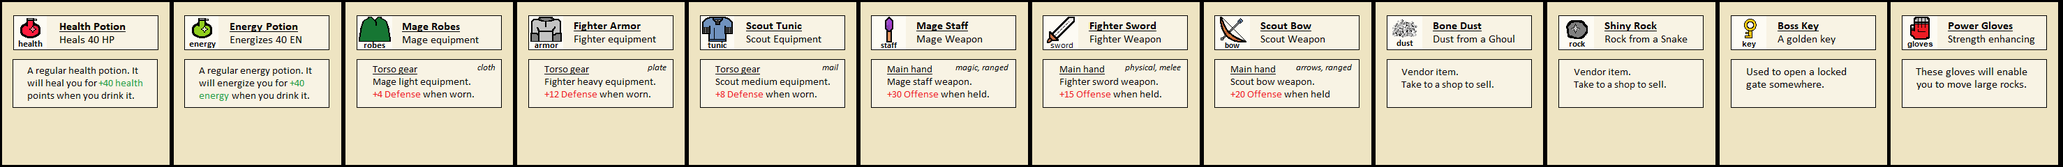
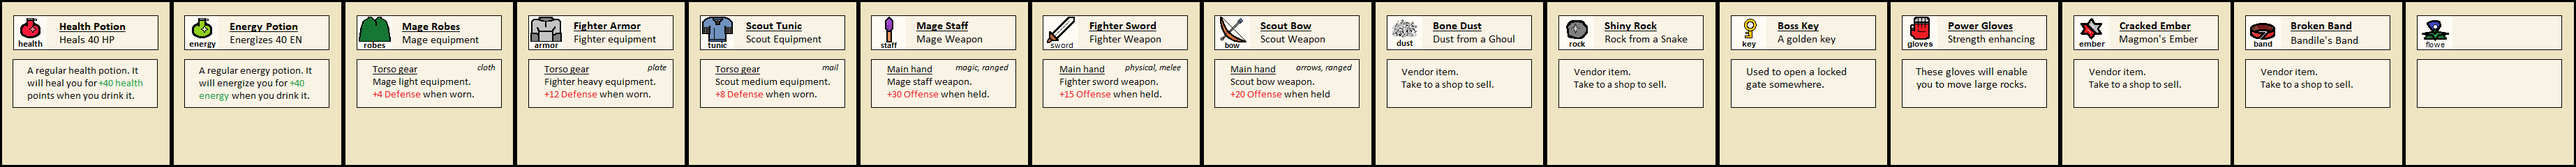
Korlok
first two quests are implemented and mostly complete.

vendor items from new mobs have associated info art and functions.

Changed region(s): [[0.0, 0.0, 1.0, 0.9917]]

diff --git a/project_eterna.py b/project_eterna.py
@@ -1833,10 +1833,14 @@ if __name__ == '__main__':
     message_box = UiElement("message box", 173, 650, graphic_dict["message_box"])
     bar_backdrop = UiElement("bar backdrop", 165, 45, graphic_dict["bar_backdrop"])
     enemy_status_bar_back = UiElement("enemy bar backdrop", 700, 90, graphic_dict["enemy_bar_backdrop"])
+
     quest_star_garan = UiElement("quest star garan", 210, 390, graphic_dict["quest_start_star"])
     quest_star_maurelle = UiElement("quest star maurelle", 744, 575, graphic_dict["quest_start_star"])
     quest_star_celeste = UiElement("quest star maurelle", 760, 373, graphic_dict["quest_start_star"])
     quest_star_torune = UiElement("quest star torune", 430, 75, graphic_dict["quest_start_star"])
+    quest_star_voruke = UiElement("quest star voruke", 262, 385, graphic_dict["quest_start_star"])
+    quest_star_zerah = UiElement("quest star zerah", 651, 50, graphic_dict["quest_start_star"])
+
     player_battle_sprite = BattleCharacter("stan battle", 320, 460, graphic_dict["player_no_role_amuna_battle"])
     snake_battle_sprite = BattleCharacter("snake battle", 715, 250, graphic_dict["snake_battle"])
     ghoul_battle_sprite = BattleCharacter("ghoul battle", 698, 280, graphic_dict["ghoul_battle"])
@@ -2911,7 +2915,7 @@ if __name__ == '__main__':
                                                              movement_able, current_enemy_battling,
                                                              current_npc_interacting, current_building_entering,
                                                              magmon_battle_sprite, bandile_battle_sprite,
-                                                             interactables_mines)
+                                                             interactables_mines, quest_star_voruke, quest_star_zerah)
 
                     over_world_song_set = seldon_returned["over_world_song_set"]
                     interactables_seldon = seldon_returned["interactables_seldon"]
@@ -2982,7 +2986,9 @@ if __name__ == '__main__':
                                                              magmon_battle_sprite, bandile_battle_sprite, npc_voruke,
                                                              npc_zerah, npcs_korlok, seldon_enemies, snakes, ghouls,
                                                              bandiles, interactables_seldon, interactables_korlok,
-                                                             Enemy, Item, UiElement, interactables_mines)
+                                                             Enemy, Item, UiElement, interactables_mines,
+                                                             quest_star_garan, quest_star_maurelle, quest_star_celeste,
+                                                             quest_star_torune, quest_star_voruke, quest_star_zerah)
 
                     over_world_song_set = korlok_returned["over_world_song_set"]
                     korlok_attuned = korlok_returned["korlok_attuned"]
@@ -5247,8 +5253,8 @@ if __name__ == '__main__':
 
                             if player.current_zone == "korlok" or player.current_zone == "mines":
                                 player.current_zone = "korlok"
-                                player.x_coordinate = 895
-                                player.y_coordinate = 325
+                                player.x_coordinate = 882
+                                player.y_coordinate = 290
                                 player.rect = player.surf.get_rect(midbottom=(player.x_coordinate, player.y_coordinate))
                             else:
                                 player.current_zone = "seldon"
@@ -5267,6 +5273,17 @@ if __name__ == '__main__':
                                 enemy.health = 100
                                 # noinspection PyTypeChecker
                                 combat_scenario.enemy_health_bar(enemy, graphic_dict)
+                            for enemy in korlok_enemies:
+                                enemy.health = 100
+                                # noinspection PyTypeChecker
+                                combat_scenario.enemy_health_bar(enemy, graphic_dict)
+                            for enemy in bandiles:
+                                enemy.health = 100
+                                # noinspection PyTypeChecker
+                                combat_scenario.enemy_health_bar(enemy, graphic_dict)
+
+                            muchador.health = 100
+                            combat_scenario.enemy_health_bar(muchador, graphic_dict)
 
                     elif event.type == QUIT:
                         pygame.mixer.quit()

diff --git a/gameplay_functions.py b/gameplay_functions.py
@@ -8,34 +8,50 @@ import drawing_functions
 
 # quest stars for npcs that update based on player quest progress
 def npc_quest_star_updates(screen, player, star_garan, star_maurelle, star_celeste, star_torune,
-                           quest_progress_star, quest_complete_star):
-    if not player.quest_complete["sneaky snakes"]:
-        screen.blit(star_garan.surf, star_garan.rect)
-    if player.quest_progress["sneaky snakes"] == 4:
-        star_garan.update(210, 390, quest_complete_star)
-    if player.quest_status["sneaky snakes"] and player.quest_progress["sneaky snakes"] != 4:
-        star_garan.update(210, 390, quest_progress_star)
+                           quest_progress_star, quest_complete_star, star_voruke, star_zerah):
+    if player.current_zone == "seldon":
+        if not player.quest_complete["sneaky snakes"]:
+            screen.blit(star_garan.surf, star_garan.rect)
+        if player.quest_progress["sneaky snakes"] == 4:
+            star_garan.update(210, 390, quest_complete_star)
+        if player.quest_status["sneaky snakes"] and player.quest_progress["sneaky snakes"] != 4:
+            star_garan.update(210, 390, quest_progress_star)
 
-    if not player.quest_complete["where's nede?"]:
-        screen.blit(star_celeste.surf, star_celeste.rect)
-    if player.quest_progress["where's nede?"] == 1:
-        star_celeste.update(760, 373, quest_complete_star)
-    if player.quest_status["where's nede?"] and player.quest_progress["where's nede?"] != 1:
-        star_celeste.update(760, 373, quest_progress_star)
+        if not player.quest_complete["where's nede?"]:
+            screen.blit(star_celeste.surf, star_celeste.rect)
+        if player.quest_progress["where's nede?"] == 1:
+            star_celeste.update(760, 373, quest_complete_star)
+        if player.quest_status["where's nede?"] and player.quest_progress["where's nede?"] != 1:
+            star_celeste.update(760, 373, quest_progress_star)
 
-    if not player.quest_complete["village repairs"]:
-        screen.blit(star_maurelle.surf, star_maurelle.rect)
-    if player.quest_progress["village repairs"] == 4:
-        star_maurelle.update(744, 575, quest_complete_star)
-    if player.quest_status["village repairs"] and player.quest_progress["village repairs"] != 4:
-        star_maurelle.update(744, 575, quest_progress_star)
+        if not player.quest_complete["village repairs"]:
+            screen.blit(star_maurelle.surf, star_maurelle.rect)
+        if player.quest_progress["village repairs"] == 4:
+            star_maurelle.update(744, 575, quest_complete_star)
+        if player.quest_status["village repairs"] and player.quest_progress["village repairs"] != 4:
+            star_maurelle.update(744, 575, quest_progress_star)
 
-    if not player.quest_complete["ghouled again"]:
-        screen.blit(star_torune.surf, star_torune.rect)
-    if player.quest_progress["ghouled again"] == 4:
-        star_torune.update(430, 75, quest_complete_star)
-    if player.quest_status["ghouled again"] and player.quest_progress["ghouled again"] != 4:
-        star_torune.update(430, 75, quest_progress_star)
+        if not player.quest_complete["ghouled again"]:
+            screen.blit(star_torune.surf, star_torune.rect)
+        if player.quest_progress["ghouled again"] == 4:
+            star_torune.update(430, 75, quest_complete_star)
+        if player.quest_status["ghouled again"] and player.quest_progress["ghouled again"] != 4:
+            star_torune.update(430, 75, quest_progress_star)
+
+    if player.current_zone == "korlok":
+        if not player.quest_complete["band hammer"]:
+            screen.blit(star_voruke.surf, star_voruke.rect)
+        if player.quest_progress["band hammer"] == 4:
+            star_voruke.update(262, 385, quest_complete_star)
+        if player.quest_status["band hammer"] and player.quest_progress["band hammer"] != 4:
+            star_voruke.update(262, 385, quest_progress_star)
+
+        if not player.quest_complete["elementary elementals"]:
+            screen.blit(star_zerah.surf, star_zerah.rect)
+        if player.quest_progress["elementary elementals"] == 4:
+            star_zerah.update(651, 50, quest_complete_star)
+        if player.quest_status["elementary elementals"] and player.quest_progress["elementary elementals"] != 4:
+            star_zerah.update(651, 50, quest_progress_star)
 
 
 def load_game(player, Item, graphics):

diff --git a/graphics.py b/graphics.py
@@ -282,7 +282,9 @@ def load_graphics():
                    "korlok_battle_screen": "", "magmon_battle": "", "magmon_attack": "", "bandile_battle": "",
                    "bandile_attack": "", "korlok_mines": "", "mines_wall": "", "mines_light": "",
                    "mines_battle_screen": "", "voruke_interaction": "", "zerah_interaction": "", "voruke_quest": "",
-                   "voruke_complete": "", "zerah_quest": "", "zerah_complete": "", "ember": "", "band": "", "flow": ""}
+                   "voruke_complete": "", "zerah_quest": "", "zerah_complete": "", "ember": "", "band": "", "flow": "",
+                   "magmon_high": "", "bandile_high": "", "info_ember": "", "info_band": "", "info_flow": "",
+                   "s_ember_img": "", "s_band_img": ""}
 
     # non sprite sheets ------------------------------------------------------------------------------------------------
     a_char_screen = pygame.image.load(resource_path('resources/art/screen_amuna_character_select.png')).convert_alpha()
@@ -927,6 +929,8 @@ def load_graphics():
     enemies_high_sheet = sprite_sheet((50, 75), enemies_high_url)
     loaded_dict["snake_high"] = enemies_high_sheet[0]
     loaded_dict["ghoul_high"] = enemies_high_sheet[1]
+    loaded_dict["magmon_high"] = enemies_high_sheet[2]
+    loaded_dict["bandile_high"] = enemies_high_sheet[3]
     # enemies battle ---------------------------------------------------------------------------------------------------
     enemies_battle_url = resource_path('resources/art/sprites_enemies_battle.png')
     enemies_battle_sheet = sprite_sheet((300, 280), enemies_battle_url)
@@ -1004,6 +1008,9 @@ def load_graphics():
     loaded_dict["info_shiny_rock_img"] = items_info_sheet[9]
     loaded_dict["info_boss_key_img"] = items_info_sheet[10]
     loaded_dict["info_gloves"] = items_info_sheet[11]
+    loaded_dict["info_ember"] = items_info_sheet[12]
+    loaded_dict["info_band"] = items_info_sheet[13]
+    loaded_dict["info_flowe"] = items_info_sheet[14]
     # buy items info ---------------------------------------------------------------------------------------------------
     buy_items_url = resource_path('resources/art/overlay_buy_items.png')
     buy_items_sheet = sprite_sheet((246, 240), buy_items_url)
@@ -1028,6 +1035,8 @@ def load_graphics():
     loaded_dict["s_basic_bow_img"] = sell_items_sheet[7]
     loaded_dict["s_bone_dust_img"] = sell_items_sheet[8]
     loaded_dict["s_shiny_rock_img"] = sell_items_sheet[9]
+    loaded_dict["s_ember_img"] = sell_items_sheet[10]
+    loaded_dict["s_band_img"] = sell_items_sheet[11]
     # player info windows ----------------------------------------------------------------------------------------------
     player_info_url = resource_path('resources/art/overlay_info_sheets.png')
     player_info_sheet = sprite_sheet((500, 525), player_info_url)

diff --git a/korlok.py b/korlok.py
@@ -17,7 +17,8 @@ def korlok_district(pygame, screen, graphic_dict, player, korlok_district_bg, ko
                     snake_battle_sprite, ghoul_battle_sprite, chorizon_battle_sprite, muchador_battle_sprite,
                     barrier_active, sharp_sense_active, magmon_battle_sprite, bandile_battle_sprite, voruke, cerah,
                     npcs, seldon_enemies, snakes, ghouls, bandiles, interactables_seldon, interactables_korlok, Enemy,
-                    Item, UiElement, interactables_mines):
+                    Item, UiElement, interactables_mines, quest_star_garan, quest_star_maurelle,
+                    quest_star_celeste, quest_star_torune, star_voruke, star_zerah):
 
     rohir_gate.update(525, 600, graphic_dict["rohir_gate"])
     hearth_stone.update(885, 230, graphic_dict["hearth_stone"])
@@ -27,6 +28,15 @@ def korlok_district(pygame, screen, graphic_dict, player, korlok_district_bg, ko
                                                       interactables_mines, Enemy, Item, graphic_dict, UiElement)
     korlok_enemies = respawned_dict["korlok_enemies"]
     magmons = respawned_dict["magmons"]
+
+    for enemy_sprite in magmons:  # update enemy sprite to a highlighted version
+        if not player.quest_complete["elementary elementals"]:
+            if player.quest_status["elementary elementals"]:
+                enemy_sprite.update_image(enemy_sprite.x_coordinate, enemy_sprite.y_coordinate,
+                                          graphic_dict["magmon_high"])
+    for enemy_sprite in magmons:
+        if player.quest_complete["elementary elementals"]:
+            enemy_sprite.update_image(enemy_sprite.x_coordinate, enemy_sprite.y_coordinate, graphic_dict["magmon"])
 
     if not over_world_song_set:
         pygame.mixer.music.fadeout(50)
@@ -44,6 +54,11 @@ def korlok_district(pygame, screen, graphic_dict, player, korlok_district_bg, ko
     screen.blit(hearth_stone.surf, hearth_stone.rect)
     for magmon in magmons:
         screen.blit(magmon.surf, magmon.rect)
+
+    gameplay_functions.npc_quest_star_updates(screen, player, quest_star_garan, quest_star_maurelle, quest_star_celeste,
+                                              quest_star_torune, graphic_dict["quest_progress_star"],
+                                              graphic_dict["quest_complete_star"], star_voruke, star_zerah)
+
     screen.blit(player.surf, player.rect)
 
     # if player collides with enemy sprite, doesn't have combat cooldown and chooses to interact with it

diff --git a/drawing_functions.py b/drawing_functions.py
@@ -172,13 +172,13 @@ def item_info_draw(inventory_item, info_items, item_info_button, graphic):
             item_info_window.append(item_info_button)
             return inventory_item
         if inventory_item.name == "cracked ember":
-            info_items.update(info_items.x_coordinate, info_items.y_coordinate, graphic["info_boss_key_img"])
+            info_items.update(info_items.x_coordinate, info_items.y_coordinate, graphic["info_ember"])
             item_info_window.append(info_items)
             item_info_button.update(item_info_button.x_coordinate, item_info_button.y_coordinate,
                                     graphic["ok_button_img"])
             item_info_window.append(item_info_button)
         if inventory_item.name == "broken band":
-            info_items.update(info_items.x_coordinate, info_items.y_coordinate, graphic["info_boss_key_img"])
+            info_items.update(info_items.x_coordinate, info_items.y_coordinate, graphic["info_band"])
             item_info_window.append(info_items)
             item_info_button.update(item_info_button.x_coordinate, item_info_button.y_coordinate,
                                     graphic["ok_button_img"])
@@ -295,6 +295,18 @@ def sell_info_draw(sell_item, sell_items, yes_button, graphic):
             return sell_item
         if sell_item.name == "bone dust":
             sell_items.update(sell_items.x_coordinate, sell_items.y_coordinate, graphic["s_bone_dust_img"])
+            sell_info_window.append(sell_items)
+            yes_button.update(1153, 345, graphic["yes_button_img"])
+            sell_info_window.append(yes_button)
+            return sell_item
+        if sell_item.name == "cracked ember":
+            sell_items.update(sell_items.x_coordinate, sell_items.y_coordinate, graphic["s_ember_img"])
+            sell_info_window.append(sell_items)
+            yes_button.update(1153, 345, graphic["yes_button_img"])
+            sell_info_window.append(yes_button)
+            return sell_item
+        if sell_item.name == "broken band":
+            sell_items.update(sell_items.x_coordinate, sell_items.y_coordinate, graphic["s_band_img"])
             sell_info_window.append(sell_items)
             yes_button.update(1153, 345, graphic["yes_button_img"])
             sell_info_window.append(yes_button)

diff --git a/combat_scenario.py b/combat_scenario.py
@@ -312,6 +312,28 @@ def attack_scenario(enemy_combating, combat_event, player, hard_strike_learned, 
                 else:
                     combat_event_dictionary["quest update"] = "No"
 
+                # if player is on quest to kill magmons
+                if enemy_combating.kind == "magmon":
+                    if player.quest_status["elementary elementals"]:
+                        if player.quest_progress["elementary elementals"] < 4:
+                            player.quest_progress["elementary elementals"] = \
+                                player.quest_progress["elementary elementals"] + 1
+                            quest_string = f"{player.quest_status['elementary elementals']}/4 magmons"
+                            combat_event_dictionary["quest update"] = quest_string
+                else:
+                    combat_event_dictionary["quest update"] = "No"
+
+                # if player is on quest to kill bandiles
+                if enemy_combating.kind == "bandile":
+                    if player.quest_status["band hammer"]:
+                        if player.quest_progress["band hammer"] < 4:
+                            player.quest_progress["band hammer"] = \
+                                player.quest_progress["band hammer"] + 1
+                            quest_string = f"{player.quest_status['band hammer']}/4 bandiles"
+                            combat_event_dictionary["quest update"] = quest_string
+                else:
+                    combat_event_dictionary["quest update"] = "No"
+
                 # experienced gained by player from defeating enemy
                 if player.level <= enemy_combating.level + 1:
                     experience = int((enemy_combating.level / player.level) * 30)

diff --git a/shop_scenario.py b/shop_scenario.py
@@ -90,6 +90,22 @@ def sell_items(player, sell_choice, current_sell_item):
                     player.rupees = player.rupees + 10
                     sell_return["sold"] = True
                     drawing_functions.sell_info_window.clear()
+                if current_sell_item.name == "cracked ember":
+                    sell_return["info 1"] = "Sold Cracked Ember for 15 rupees."
+                    sell_return["info 2"] = "Cracked Ember removed from inventory."
+                    player.items.remove(current_sell_item)
+                    drawing_functions.player_items.remove(current_sell_item)
+                    player.rupees = player.rupees + 15
+                    sell_return["sold"] = True
+                    drawing_functions.sell_info_window.clear()
+                if current_sell_item.name == "broken band":
+                    sell_return["info 1"] = "Sold Broken Band for 20 rupees."
+                    sell_return["info 2"] = "Broken Band removed from inventory."
+                    player.items.remove(current_sell_item)
+                    drawing_functions.player_items.remove(current_sell_item)
+                    player.rupees = player.rupees + 20
+                    sell_return["sold"] = True
+                    drawing_functions.sell_info_window.clear()
                 if current_sell_item.name == "basic staff":
                     sell_return["info 1"] = "Sold Basic Staff for 5 rupees."
                     sell_return["info 2"] = "Basic Staff removed from inventory."

diff --git a/seldon.py b/seldon.py
@@ -24,7 +24,7 @@ def seldon_district(pygame, player, screen, graphic_dict, rohir_gate, hearth_sto
                     enemy_tic, npc_tic, npc_garan, npc_maurelle, npc_celeste, npc_torune, info_text_1, info_text_2,
                     info_text_3, info_text_4, in_battle, in_shop, in_academia, in_inn, movement_able,
                     current_enemy_battling, current_npc_interacting, current_building_entering,
-                    magmon_battle_sprite, bandile_battle_sprite, interactables_mines):
+                    magmon_battle_sprite, bandile_battle_sprite, interactables_mines, star_voruke, star_zerah):
 
     rohir_gate.update(525, 50, graphic_dict["rohir_gate"])
     hearth_stone.update(860, 595, graphic_dict["hearth_stone"])
@@ -96,7 +96,7 @@ def seldon_district(pygame, player, screen, graphic_dict, rohir_gate, hearth_sto
 
     gameplay_functions.npc_quest_star_updates(screen, player, quest_star_garan, quest_star_maurelle, quest_star_celeste,
                                               quest_star_torune, graphic_dict["quest_progress_star"],
-                                              graphic_dict["quest_complete_star"])
+                                              graphic_dict["quest_complete_star"], star_voruke, star_zerah)
     screen.blit(player.surf, player.rect)
 
     # player encounters objects and draws popup information box ----------------------------------------

diff --git a/click_handlers.py b/click_handlers.py
@@ -183,6 +183,12 @@ def inventory_event_item(inventory_event_here, pygame):
             if clicked_element[0].name == "bone dust":
                 event_return["element"] = clicked_element[0]
                 event_return["clicked"] = True
+            if clicked_element[0].name == "cracked ember":
+                event_return["element"] = clicked_element[0]
+                event_return["clicked"] = True
+            if clicked_element[0].name == "broken band":
+                event_return["element"] = clicked_element[0]
+                event_return["clicked"] = True
             if clicked_element[0].name == "basic staff":
                 event_return["element"] = clicked_element[0]
                 event_return["clicked"] = True
@@ -516,6 +522,10 @@ def sell_event_item(sell_event, pygame):
             if clicked_element[0].name == "shiny rock":
                 return clicked_element[0]
             if clicked_element[0].name == "bone dust":
+                return clicked_element[0]
+            if clicked_element[0].name == "cracked ember":
+                return clicked_element[0]
+            if clicked_element[0].name == "broken band":
                 return clicked_element[0]
             if clicked_element[0].name == "basic staff":
                 return clicked_element[0]

diff --git a/mines.py b/mines.py
@@ -22,6 +22,15 @@ def korlok_mines(pygame, screen, graphic_dict, player, korlok_mines_bg, korlok_o
                                                       interactables_mines, Enemy, Item, graphic_dict, UiElement)
     bandiles = respawned_dict["bandiles"]
 
+    for enemy_sprite in bandiles:  # update enemy sprite to a highlighted version
+        if not player.quest_complete["band hammer"]:
+            if player.quest_status["band hammer"]:
+                enemy_sprite.update_image(enemy_sprite.x_coordinate, enemy_sprite.y_coordinate,
+                                          graphic_dict["bandile_high"])
+    for enemy_sprite in bandiles:
+        if player.quest_complete["band hammer"]:
+            enemy_sprite.update_image(enemy_sprite.x_coordinate, enemy_sprite.y_coordinate, graphic_dict["bandile"])
+
     if not over_world_song_set:
         pygame.mixer.music.fadeout(50)
         pygame.mixer.music.load(korlok_overworld_music)
